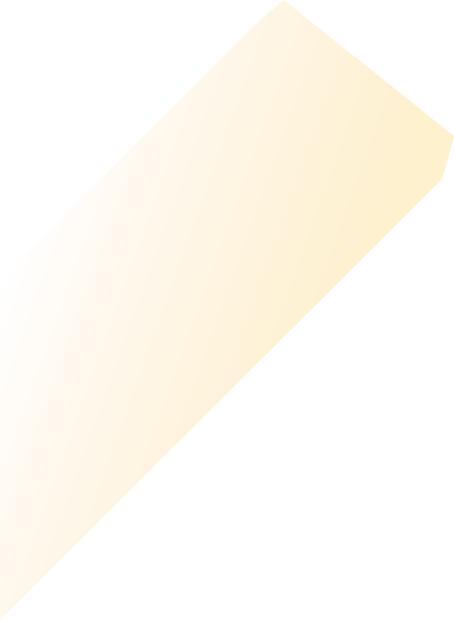
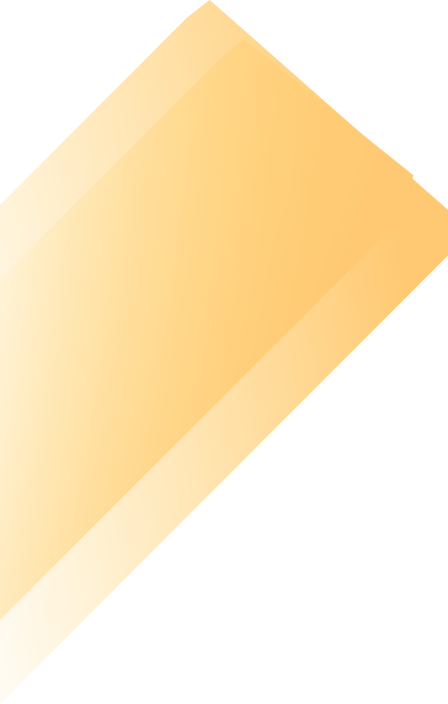
page02 big changes animation modification version0.4

diff --git a/index.html b/index.html
@@ -55,14 +55,10 @@
   					<img class="lazy" src="images/page01/zhaopin.png" image-url="images/page01/zhaopin.png" />
   				</div>   				  				 								
   			</div>
-      		<div class="swiper-slide page2 pages">
+      		<div class="swiper-slide page2 pages">    			
   				<div class="shadowL">
-  					<img class="lazy" src="images/page02/touying1.png" image-url="images/page02/touying1.png" />
-  				</div>      			
-  				<div class="shadowD">
   					<img class="lazy" src="images/page02/touying2.png" image-url="images/page02/touying2.png" />
-  				</div>
-  			
+  				</div>  			
 	 			<div class="HSEELFaces faces lfaces facel5"  style="display: none">
 		 			<img class="lazy" src="images/page02/HLface.png" image-url="images/page02/HLface.png" />
 		 		</div>      		
@@ -136,17 +132,17 @@
       			</div>
       		</div>
       		<div class="swiper-slide page3 pages">
-				<!-- <div class="intro-title">
+				<div class="intro-title">
 					<img class="lazy" src="images/page03/HESS.png" image-url="images/page03/HESS.png" />
 					<img class="lazy" src="images/page03/hengxianShang.png" image-url="images/page03/hengxianShang.png" />
 					<img class="lazy" src="images/page03/ANEWMEDIA.png" image-url="images/page03/ANEWMEDIA.png" />
 					<img class="lazy" src="images/page03/xinmeitidaoshiyunyingshang.png" image-url="images/page03/xinmeitidaoshiyunyingshang.png" />
 					<img class="lazy intro-higher" src="images/page03/henggangXia.png" image-url="images/page03/henggangXia.png" />
 					<img class="lazy intro-higher" src="images/page03/xinmeitijieshao.png" image-url="images/page03/xinmeitijieshao.png" />
-				</div> -->
+				</div>
       		</div>
       		<div class="swiper-slide page4 pages"> 
-	  			<!-- <div class="hess-character">
+	  			<div class="hess-character">
 	  				<div class="charac-head charc-block">
 	  					 <img class="lazy" src="images/page04/TECHNOLOGY.png" image-url="images/page04/TECHNOLOGY.png" />
 	  				</div>
@@ -176,10 +172,10 @@
 							<img class="lazy" src="images/page04/zhanjudashuju.png" image-url="images/page04/zhanjudashuju.png" />		     					
 	  					</div>
 	  				</div>
-	  			</div> -->
+	  			</div>
       		</div>
   			<div class="swiper-slide page5 pages">
-      			 <!-- <div class="weiGo">
+      			 <div class="weiGo">
       				<div class="weiGo-icon weiGo-item">
       					 <img class="lazy" src="images/page05/weiGOtubiao.png" image-url="images/page05/weiGOtubiao.png" />
       				</div>
@@ -198,7 +194,7 @@
       				<div class="weiGo-icons weiGo-item">
 						<img class="lazy" src="images/page05/weiGOfennei.png" image-url="images/page05/weiGOfennei.png" />     				
       				</div>        				     				      				     				
-      			</div>  --> 				
+      			</div> 				
   			</div>
       		<div class="swiper-slide page6 pages">
  				<!-- <div class="mileCircle lastMile">

diff --git a/js/hsee.js b/js/hsee.js
@@ -94,6 +94,12 @@ var hsee = {
                 $(".facel" + index).css("-webkit-transform", "rotateY(0deg)");
                 $(".facer" + index).show();
                 $(".facer" + index).css("-webkit-transform", "rotateY(0deg)");
+                if (index === 3) {
+                    $(".shadowL").hide();
+                } else {
+                    $(".shadowL").show();
+                }
+
             },
             onSetWrapperTransition : function(swiper, duration) {
                 if (swiper.positions.current - swiper.positions.start != 0) {
@@ -104,8 +110,14 @@ var hsee = {
                 previousX = transform;
                 console.log("instance:" +instance);
                 var index = swiper.activeIndex;
+               if (index === 2) {
+                    $(".shadowL").css('display','none');
+                } else {
+                    $(".shadowL").css('display','block');
+                }                   
                 var $facer = $(".facer" + index), per = (transform + (swiper.width * index)) / swiper.width, $facel = $(".facel" + index);
                 console.log("transform:"+transform);
+              
                 if ((index + 1) < 6 && instance < 0) {
                     var $nrface = $(".facer" + (index + 1)), $nlface = $(".facel" + (index + 1));
                     $nrface.show();

diff --git a/css/main.css b/css/main.css
@@ -189,22 +189,17 @@ body {
 .page2 {
 	background: rgba(254,184,41,1);
 }
-.shadowD {
-	position: absolute;
-	top: 26%;
-	width: 69%;
-}
+
 .shadowL {
 	position: absolute;
-	top: 25%;
-	width: 65%;
-}
-.shadowD img {
-	width: 100%
+	top: 29%;
+	width: 55%;	
+	left:8%;
 }
 .shadowL img {
-	width: 100%;
+	width: 100%
 }
+
 .faces {
 	position: absolute;
 	top: 22%;
@@ -280,7 +275,7 @@ body {
 }
 
 .intro-title {
-	margin-top: 25%;
+	margin-top: 14.5%;
 }
 .intro-title img {
 	width: 62%;
@@ -298,7 +293,7 @@ body {
 	background-size: cover;
 }
 .hess-character {
-	margin-top: 25%;
+	margin-top: 6%;
 }
 .charc-block {
 	width: 100%;
@@ -419,7 +414,7 @@ body {
 }
 
 .weiGo {
-	margin-top: 20%;
+	margin-top: 10%;
 }
 
 .weiGo-item {
